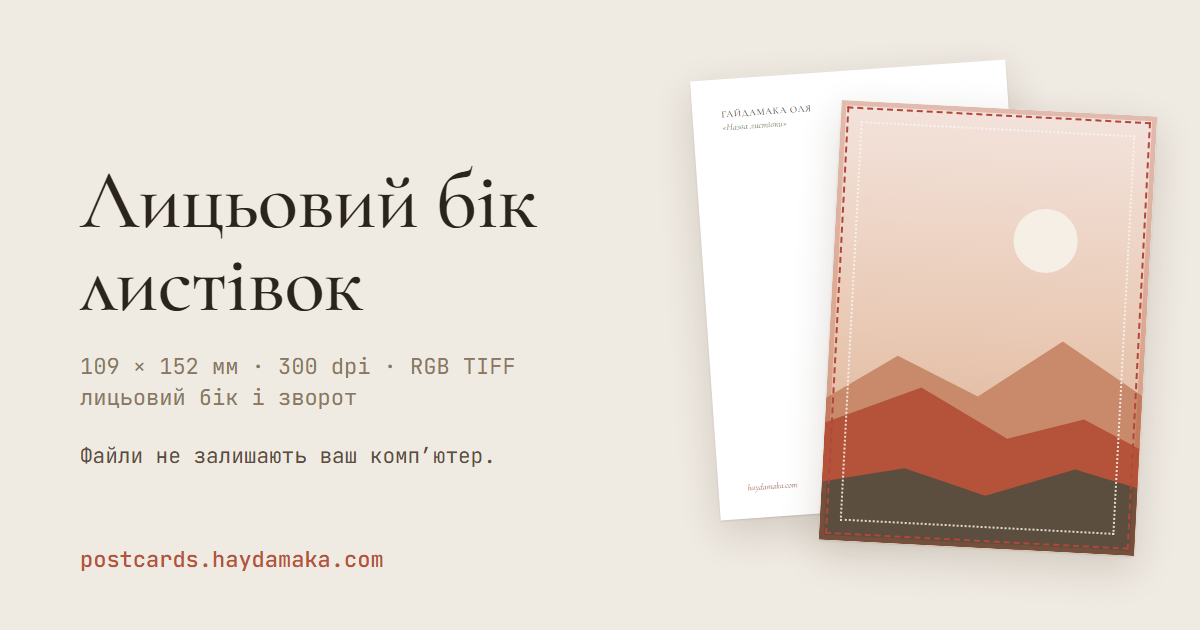
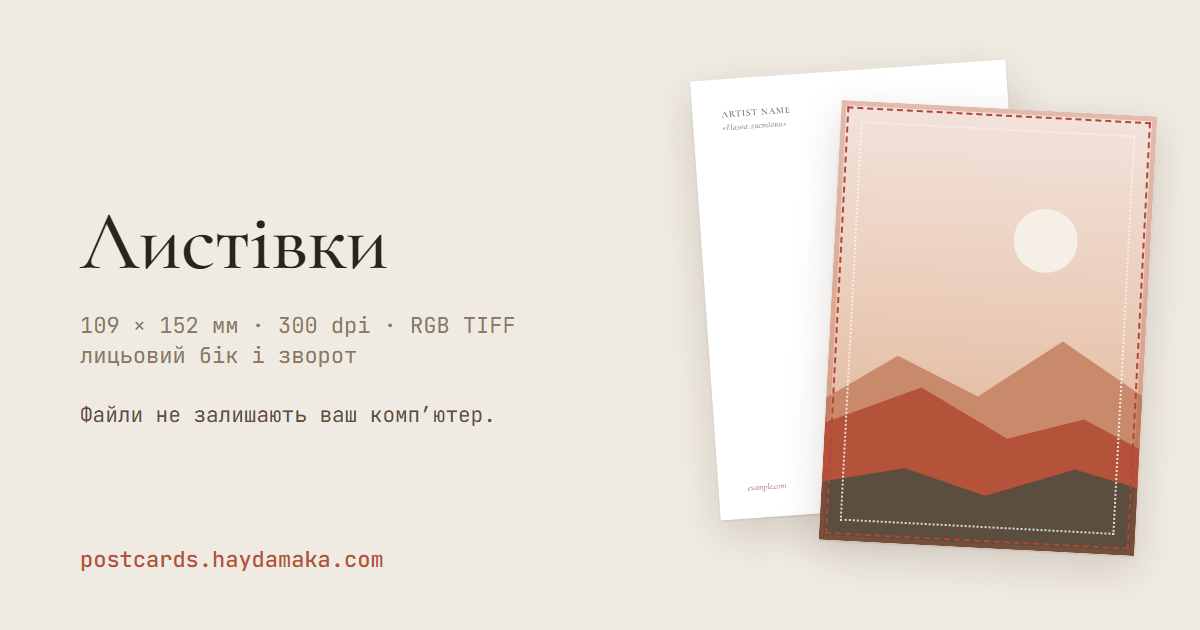
[UI] Ukrainian name «Листівки» [deploy]

diff --git a/index.html b/index.html
@@ -4,7 +4,7 @@
     <meta charset="utf-8" />
     <meta name="viewport" content="width=device-width, initial-scale=1" />
     <!-- In Ukrainian, the default language; the app re-titles the page when the viewer picks another. -->
-    <title>Лицьовий бік листівок</title>
+    <title>Листівки</title>
     <!-- Linked, not imported from the script: the page never paints unstyled, in development either. -->
     <link rel="stylesheet" href="./src/styles/index.css" />
     <meta
@@ -16,7 +16,7 @@
     <!-- Link previews (Telegram, Facebook, X…). Crawlers don't run scripts or resolve relative URLs. -->
     <meta property="og:type" content="website" />
     <meta property="og:site_name" content="Гайдамака Оля" />
-    <meta property="og:title" content="Лицьовий бік листівок" />
+    <meta property="og:title" content="Листівки" />
     <meta
       property="og:description"
       content="Розмістіть картини на листівках 109 × 152 мм і експортуйте файли TIFF 300 dpi для друку: лицьовий бік і зворот. Працює в браузері, файли не залишають ваш комп’ютер."

diff --git a/tests/i18n.test.ts b/tests/i18n.test.ts
@@ -18,7 +18,8 @@ const proto = evalPrototype<{ en: Table; uk: Table }>(
  * the work is kept in the browser, with a button to clear the list and a splash screen while it comes back. The
  * header links to the source code (changelog/003). An empty list says where the cards come from (the handoff's
  * copy, not in its prototype), and the panel's hint shows only while there are no cards, so it speaks of pictures,
- * not of "this slot" (changelog/007).
+ * not of "this slot" (changelog/007). The tool's Ukrainian name is «Листівки», as on the organisation's site
+ * (changelog/008).
  */
 const ADDED = [
   'added',
@@ -41,7 +42,7 @@ const ADDED = [
   'zoomOut',
   'zoomTip',
 ];
-const CHANGED = ['dropFmt', 'fitTip', 'noPicHint'];
+const CHANGED = ['dropFmt', 'fitTip', 'h1', 'noPicHint'];
 const DROPPED = ['matched', 'noPic', 'noPicSlot'];
 
 /** Sample arguments for every function entry; several cases where the copy branches. */

diff --git a/e2e/app.spec.ts b/e2e/app.spec.ts
@@ -86,7 +86,7 @@ const NAME_BOX = [118, 118, 700, 260] as const;
 const SITE_BOX = [118, 1630, 700, 1690] as const;
 
 test('opens in Ukrainian; English persists across reloads (acceptance #8) @smoke', async ({ page }) => {
-  await expect(page.locator('h1')).toHaveText('Лицьовий бік листівок');
+  await expect(page.locator('h1')).toHaveText('Листівки');
   await expect(page.locator('html')).toHaveAttribute('lang', 'uk');
   await expect(page.locator('#expOne')).toHaveText('Експортувати цю листівку');
   await page.selectOption('#lang', 'en');

diff --git a/src/i18n/uk.ts b/src/i18n/uk.ts
@@ -1,7 +1,7 @@
 import type { Dict } from './en';
 
 export const uk: Dict = {
-  h1: 'Лицьовий бік листівок',
+  h1: 'Листівки',
   add: 'Додати картини',
   expAll: (n) => `Експортувати все (${n})`,
   front: 'Лицьовий бік',

diff --git a/changelog/008-2026-10-30-ukrainian-name.md b/changelog/008-2026-10-30-ukrainian-name.md
@@ -1,0 +1,32 @@
+# 008 — The Ukrainian name: «Листівки»
+
+**Date:** 2026-10-30
+**Version:** 26.10.7
+**Follows:** 007-2026-10-29-empty-state-and-sample.md
+
+## What changed
+
+- In Ukrainian the tool is called **«Листівки»**, not «Лицьовий бік листівок»: the header, the page title, and the
+  link preview's title and image. The other languages keep their names.
+- The link-preview image (`public/og.png`, drawn by `scripts/og-image.mjs`) shows the new name, and its drawn back
+  shows the tool's placeholders, ARTIST NAME and example.com, in place of the artist's name and website.
+
+## Why
+
+- The owner asked for the name the organisation's site (olya-haydamaka.github.io) gives the tool, so both say the
+  same.
+- The preview's back still showed the old starting text after changelog 005 made it placeholders. A preview should
+  show what the tool shows.
+
+## Details
+
+- **Another change to the prototype's copy:** `h1` joins the changed entries in `tests/i18n.test.ts`. The design
+  documents in `docs/` keep the old name.
+- The page head and the dictionary stay tied by `tests/head.test.ts` (title and `og:title` equal `uk.h1`).
+
+## Verification
+
+- `npm run check` passes (79 unit tests); all 26 end-to-end tests pass (Chromium + WebKit). The language test checks
+  the new header.
+- The regenerated preview looked at: 1200 × 630, the new name on one line, the back with the placeholders, no
+  metadata chunks in the PNG.
